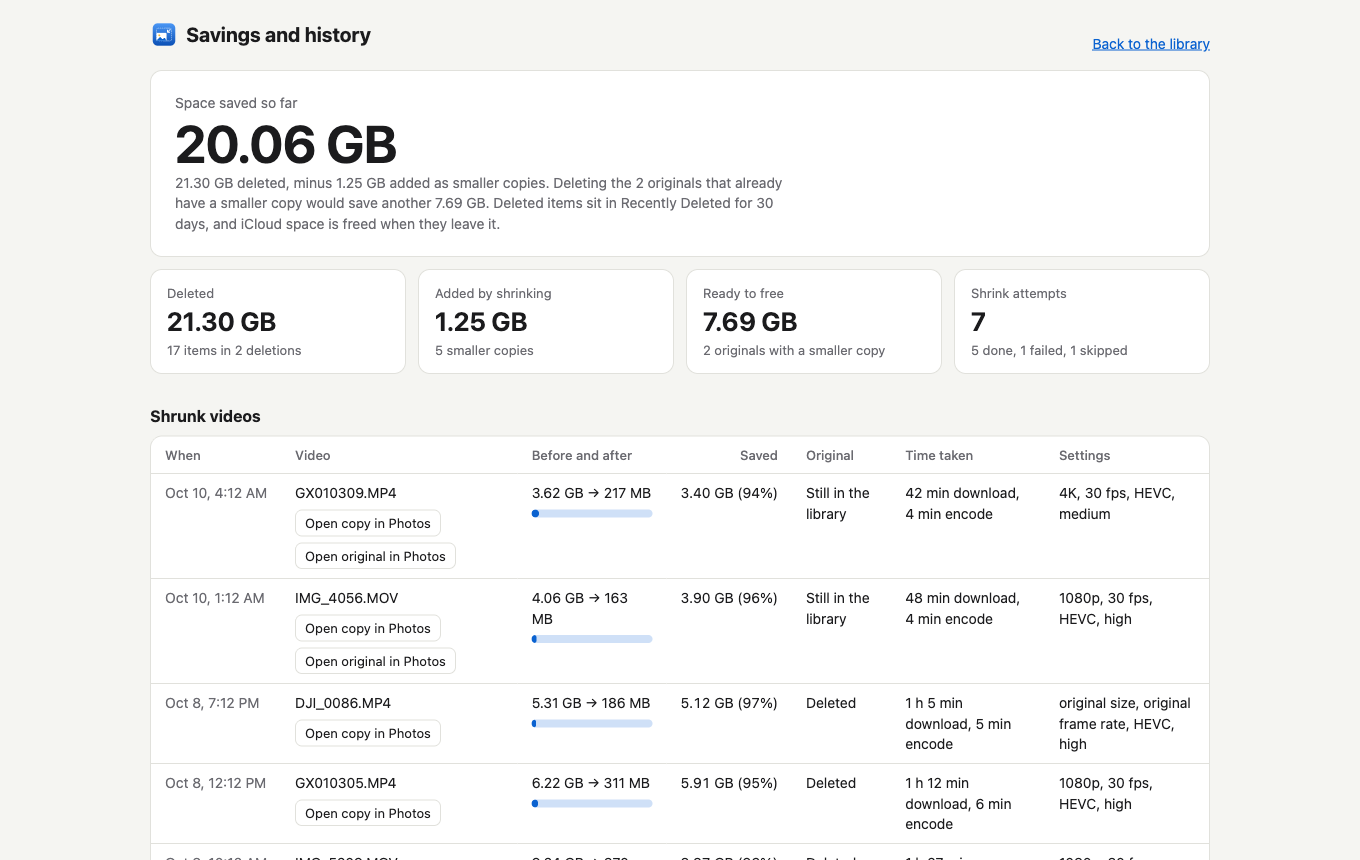
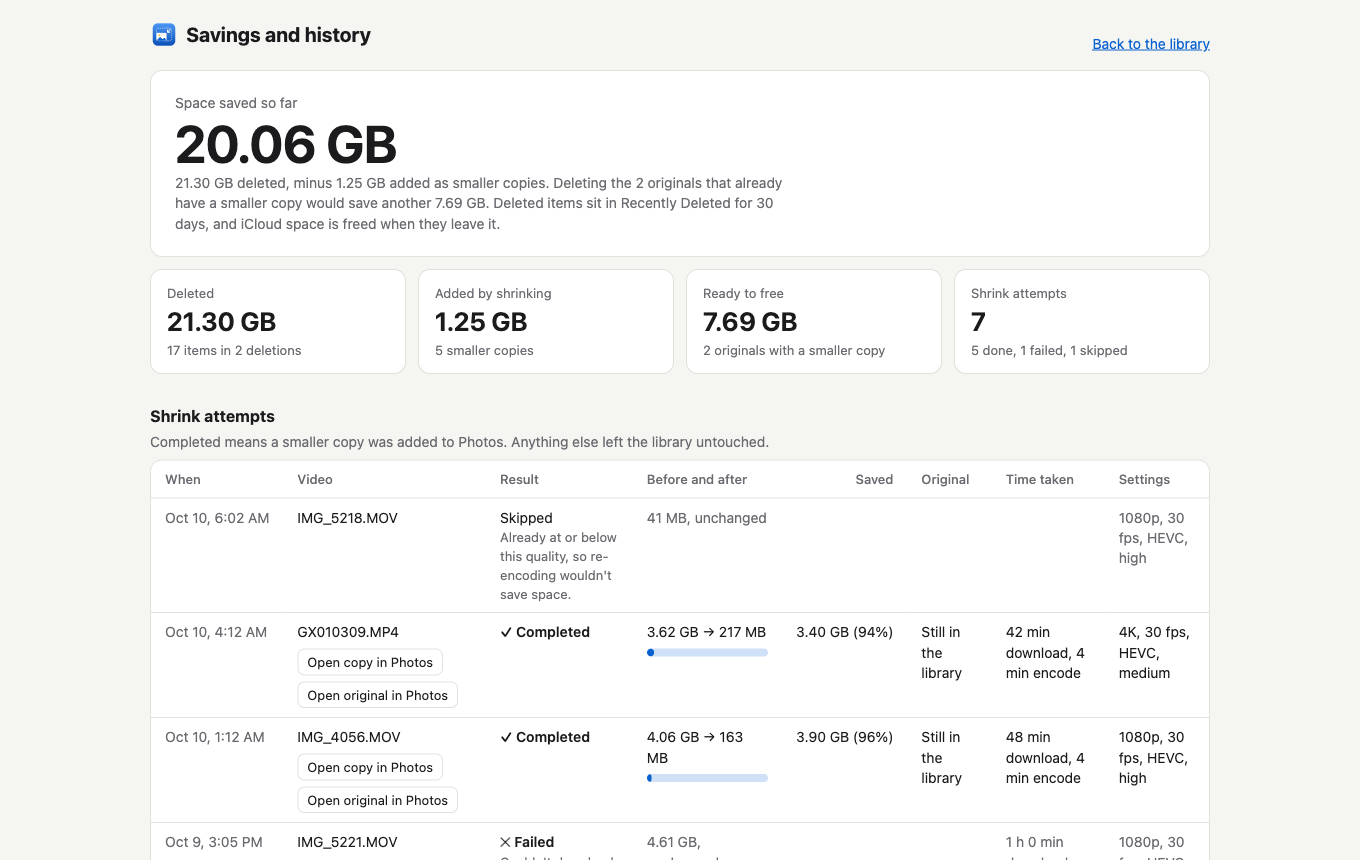
Savings page: one attempts table with an explicit result for each row
Completed, failed, skipped and cancelled shrinks were split across two
tables, which left it unclear whether a row was a finished shrink.

diff --git a/stats.html b/stats.html
@@ -47,6 +47,13 @@
   td.number, th.number { text-align: right; font-variant-numeric: tabular-nums; white-space: nowrap; }
   td.name { min-width: 170px; max-width: 320px; overflow-wrap: anywhere; }
   td.when { white-space: nowrap; color: var(--muted); }
+  td.result { min-width: 130px; }
+  .outcome { font-weight: 600; white-space: nowrap; }
+  .outcome.skipped, .outcome.cancelled { font-weight: 400; }
+  .reason { font-size: 13px; max-width: 260px; }
+  tr.unfinished td { color: var(--muted); }
+  tr.unfinished td.name, tr.unfinished .outcome { color: var(--fg); }
+  .caption { margin: -4px 0 8px; }
   /* The whole bar is the original's size; the filled part is what the smaller copy takes. */
   .meter { height: 8px; min-width: 120px; border-radius: 4px; background: var(--track); overflow: hidden; margin-top: 6px; }
   .meter div { height: 100%; min-width: 2px; border-radius: 4px; background: var(--accent); }
@@ -128,7 +135,6 @@ function render(data) {
   const events = data.events;
   const shrinks = events.filter((e) => e.type === "shrink");
   const done = shrinks.filter((e) => e.outcome === "done");
-  const unfinished = shrinks.filter((e) => e.outcome !== "done");
   const deletes = events.filter((e) => e.type === "delete");
   if (!events.length) {
     return [el("div", { className: "empty", textContent: "Nothing here yet. Shrink or delete something in the library and it will show up on this page." })];
@@ -156,29 +162,44 @@ function render(data) {
     tile("Deleted", size(deletedBytes), plural(deletedItems.length, "item") + ` in ${plural(deletes.length, "deletion")}`),
     tile("Added by shrinking", size(addedBytes), plural(done.length, "smaller copy").replace("copys", "copies")),
     tile("Ready to free", size(waitingBytes), waiting.length ? plural(waiting.length, "original") + " with a smaller copy" : "No originals waiting"),
-    tile("Shrink attempts", shrinks.length.toLocaleString(), outcomes.map(([o, n]) => `${n} ${o}`).join(", ") || "None yet"),
+    tile("Shrink attempts", shrinks.length.toLocaleString(), outcomes.map(([o, n]) => `${n} ${o === "done" ? "completed" : o}`).join(", ") || "None yet"),
   ]);
 
   const sections = [hero, tiles];
   if (!data.ready) sections.push(el("p", { className: "muted", textContent: "Still measuring the library, so whether originals are still present may be out of date for a minute." }));
 
-  if (done.length) {
-    sections.push(el("h2", { textContent: "Shrunk videos" }), table(
-      [["When"], ["Video"], ["Before and after"], ["Saved", "number"], ["Original"], ["Time taken"], ["Settings"]],
-      [...done].reverse().map((e) => {
-        const share = e.originalBytes ? e.newBytes / e.originalBytes : 0;
+  // One table for every attempt, so it's plain which ones finished and which didn't.
+  if (shrinks.length) {
+    const results = { done: "✓ Completed", failed: "✕ Failed", skipped: "Skipped", cancelled: "Cancelled" };
+    sections.push(el("h2", { textContent: "Shrink attempts" }),
+      el("p", { className: "muted caption", textContent: "Completed means a smaller copy was added to Photos. Anything else left the library untouched." }),
+      table(
+      [["When"], ["Video"], ["Result"], ["Before and after"], ["Saved", "number"], ["Original"], ["Time taken"], ["Settings"]],
+      [...shrinks].reverse().map((e) => {
+        const finished = e.outcome === "done";
+        const share = finished && e.originalBytes ? e.newBytes / e.originalBytes : 0;
+        const result = el("td", { className: "result" }, [
+          el("div", { className: "outcome " + e.outcome, textContent: results[e.outcome] || e.outcome }),
+          ...(!finished && e.message ? [el("div", { className: "muted reason", textContent: e.message })] : []),
+        ]);
+        const taken = [e.downloadSeconds ? span(e.downloadSeconds) + " download" : "", e.encodeSeconds ? span(e.encodeSeconds) + " encode" : ""].filter(Boolean).join(", ");
+        if (!finished) {
+          return el("tr", { className: "unfinished" }, [
+            cell(when(e.time), "when"), cell(e.name, "name"), result, cell(size(e.originalBytes) + ", unchanged"),
+            cell("", "number"), cell(""), cell(taken), cell(settings(e.settings)),
+          ]);
+        }
         const fill = el("div");
         fill.style.width = Math.max(1, share * 100) + "%";
         const meter = el("div", { className: "meter", title: `${size(e.newBytes)} of ${size(e.originalBytes)}` }, [fill]);
         const original = !e.copyExists ? "Smaller copy deleted" : e.originalExists ? "Still in the library" : "Deleted";
-        const taken = [e.downloadSeconds ? span(e.downloadSeconds) + " download" : "", span(e.encodeSeconds || 0) + " encode"].filter(Boolean).join(", ");
         // Only items still in the library can be shown in Photos.
         const links = el("div", { className: "links" }, [
           ...(e.copyExists ? [photosButton("Open copy in Photos", e.newId)] : []),
           ...(e.originalExists ? [photosButton("Open original in Photos", e.assetId)] : []),
         ]);
         return el("tr", {}, [
-          cell(when(e.time), "when"), el("td", { className: "name" }, [el("div", { textContent: e.name }), links]),
+          cell(when(e.time), "when"), el("td", { className: "name" }, [el("div", { textContent: e.name }), links]), result,
           el("td", {}, [el("div", { textContent: `${size(e.originalBytes)} → ${size(e.newBytes)}` }), meter]),
           cell(`${size(e.originalBytes - e.newBytes)} (${Math.round(100 * (1 - share))}%)`, "number"),
           cell(original), cell(taken), cell(settings(e.settings)),
@@ -194,14 +215,6 @@ function render(data) {
         return el("tr", {}, [cell(when(e.time), "when"), cell(`${plural(items.length, "item")}: ${names}`, "name"),
           cell(size(items.reduce((sum, item) => sum + item.bytes, 0)), "number")]);
       })));
-  }
-  if (unfinished.length) {
-    sections.push(el("h2", { textContent: "Attempts that didn't finish" }), table(
-      [["When"], ["Video"], ["Size", "number"], ["Outcome"], ["Reason"]],
-      [...unfinished].reverse().map((e) => el("tr", {}, [
-        cell(when(e.time), "when"), cell(e.name, "name"), cell(size(e.originalBytes), "number"),
-        cell(e.outcome[0].toUpperCase() + e.outcome.slice(1)), cell(e.message || ""),
-      ]))));
   }
   return sections;
 }
